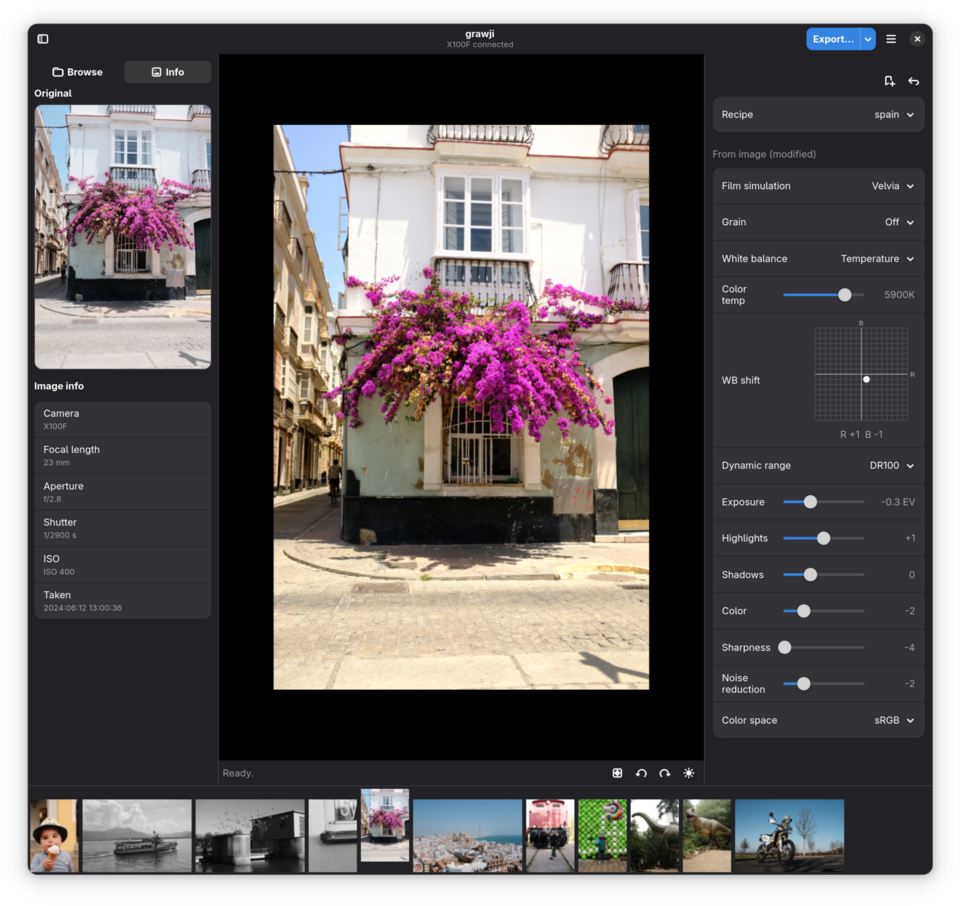
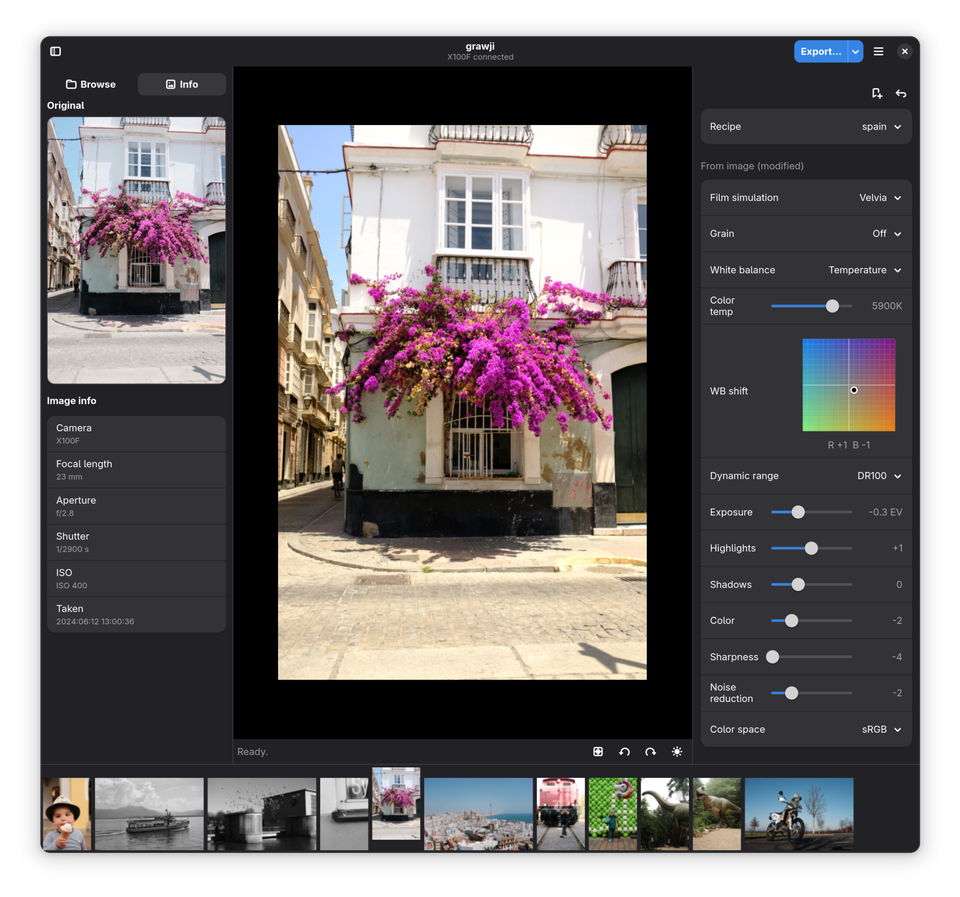
feat(ui, core): add white-balance grid tinting preference and functionality

diff --git a/src/grawji/widgets.py b/src/grawji/widgets.py
@@ -121,6 +121,7 @@ class WBShiftGrid(Gtk.DrawingArea):
         super().__init__()
         self._r = 0
         self._b = 0
+        self._colored = False
         self._on_changed: Callable[[int, int], None] | None = None
         self.set_content_width(164)
         self.set_content_height(164)
@@ -132,6 +133,21 @@ class WBShiftGrid(Gtk.DrawingArea):
         drag = Gtk.GestureDrag()
         drag.connect("drag-update", self._on_drag)
         self.add_controller(drag)
+
+    def set_colored(self, colored: bool) -> None:
+        """Tint each cell to preview its white-balance shift, or not."""
+        self._colored = colored
+        self.queue_draw()
+
+    @staticmethod
+    def _cell_rgb(r: float, b: float) -> tuple[float, float, float]:
+        """Opponent-colour tint for a shift: +R red, +B blue, and inverses."""
+        base, amp = 0.5, 0.22
+        red = base + amp * (r - b)
+        green = base - amp * (r + b)
+        blue = base + amp * (b - r)
+        clamp = lambda v: max(0.0, min(1.0, v))  # noqa: E731
+        return clamp(red), clamp(green), clamp(blue)
 
     def get_values(self) -> tuple[int, int]:
         """Return the current (red, blue) shift."""
@@ -190,12 +206,27 @@ class WBShiftGrid(Gtk.DrawingArea):
             if self._on_changed is not None:
                 self._on_changed(self._r, self._b)
 
+    def _fill_cells(self, cx: Any, ox: float, oy: float, step: float) -> None:
+        """Tint every grid cell with its opponent-colour shift preview."""
+        cells = 2 * self._RANGE
+        for col in range(cells):
+            r = ((col + 0.5) / cells) * 2 - 1
+            for row in range(cells):
+                b = 1 - ((row + 0.5) / cells) * 2
+                red, green, blue = self._cell_rgb(r, b)
+                cx.set_source_rgb(red, green, blue)
+                cx.rectangle(ox + col * step, oy + row * step, step, step)
+                cx.fill()
+
     def _draw(
         self, _area: Gtk.DrawingArea, cx: Any, _width: int, _height: int
     ) -> None:
         """Draw the grid, axes and current marker (cx is a cairo ctx)."""
         ox, oy, size, step = self._geometry()
         color = self.get_color()
+
+        if self._colored:
+            self._fill_cells(cx, ox, oy, step)
 
         cx.set_line_width(1.0)
         cx.set_source_rgba(color.red, color.green, color.blue, 0.15)
@@ -219,13 +250,14 @@ class WBShiftGrid(Gtk.DrawingArea):
 
         px = ox + (self._r / self._RANGE / 2 + 0.5) * size
         py = oy + (0.5 - self._b / self._RANGE / 2) * size
-        cx.set_source_rgba(color.red, color.green, color.blue, 0.95)
-        cx.arc(px, py, 5.0, 0, 6.2832)
-        cx.fill()
-
-        cx.set_source_rgba(color.red, color.green, color.blue, 0.7)
-        b_ext = cx.text_extents("B")
-        cx.move_to(mid_x - b_ext.width / 2, oy - 4)
-        cx.show_text("B")
-        cx.move_to(ox + size + 4, mid_y + 4)
-        cx.show_text("R")
+        if self._colored:
+            cx.set_source_rgb(1.0, 1.0, 1.0)
+            cx.arc(px, py, 5.5, 0, 6.2832)
+            cx.fill()
+            cx.set_source_rgb(0.0, 0.0, 0.0)
+            cx.arc(px, py, 3.5, 0, 6.2832)
+            cx.fill()
+        else:
+            cx.set_source_rgba(color.red, color.green, color.blue, 0.95)
+            cx.arc(px, py, 5.0, 0, 6.2832)
+            cx.fill()

diff --git a/src/grawji/window.py b/src/grawji/window.py
@@ -415,6 +415,7 @@ class MainWindow(Adw.ApplicationWindow):
             fmt=lambda i: f"{_WB_KELVIN_PRESETS[round(i)]}K",
         )
         self._wb_grid = WBShiftGrid()
+        self._wb_grid.set_colored(self._settings.wb_grid_tint)
         self._wb_shift_label = Gtk.Label(halign=Gtk.Align.CENTER)
         self._wb_shift_label.add_css_class("dim-label")
         wb_box = Gtk.Box(orientation=Gtk.Orientation.VERTICAL, spacing=0)
@@ -1225,9 +1226,14 @@ class MainWindow(Adw.ApplicationWindow):
     def _on_preferences(self) -> None:
         """Open the preferences dialog."""
         dialog = PreferencesDialog(
-            settings=self._settings, on_change=self._save_settings
+            settings=self._settings, on_change=self._on_settings_changed
         )
         dialog.present(self)
+
+    def _on_settings_changed(self) -> None:
+        """Persist settings and apply any that affect the live UI."""
+        self._wb_grid.set_colored(self._settings.wb_grid_tint)
+        self._save_settings()
 
     def _save_settings(self) -> None:
         """Persist the current settings to disk."""

diff --git a/src/grawji/preferences.py b/src/grawji/preferences.py
@@ -28,6 +28,7 @@ class PreferencesDialog(Adw.PreferencesDialog):
     __gtype_name__ = "GrawjiPreferencesDialog"
 
     load_recipe_row = Gtk.Template.Child()
+    wb_grid_row = Gtk.Template.Child()
     jpeg_quality_scale = Gtk.Template.Child()
     batch_skip_row = Gtk.Template.Child()
 
@@ -45,9 +46,11 @@ class PreferencesDialog(Adw.PreferencesDialog):
         self._on_change = on_change
 
         self.load_recipe_row.set_active(settings.load_recipe_from_image)
+        self.wb_grid_row.set_active(settings.wb_grid_tint)
         self.jpeg_quality_scale.set_value(settings.jpeg_quality)
         self.batch_skip_row.set_active(settings.batch_skip_foreign)
         self.load_recipe_row.connect("notify::active", self._on_edited)
+        self.wb_grid_row.connect("notify::active", self._on_edited)
         self.jpeg_quality_scale.connect("value-changed", self._on_edited)
         self.batch_skip_row.connect("notify::active", self._on_edited)
 
@@ -56,6 +59,7 @@ class PreferencesDialog(Adw.PreferencesDialog):
         self._settings.load_recipe_from_image = (
             self.load_recipe_row.get_active()
         )
+        self._settings.wb_grid_tint = self.wb_grid_row.get_active()
         self._settings.jpeg_quality = int(self.jpeg_quality_scale.get_value())
         self._settings.batch_skip_foreign = self.batch_skip_row.get_active()
         self._on_change()

diff --git a/src/grawji/settings.py b/src/grawji/settings.py
@@ -38,6 +38,8 @@ class Settings:
         batch_skip_foreign: On batch export, skip RAFs shot by a different
             camera body (which the connected camera cannot convert) and
             carry on, instead of stopping the whole batch.
+        wb_grid_tint: When True, tint each white-balance shift grid cell
+            with the colour it nudges the image toward.
     """
 
     load_recipe_from_image: bool = True
@@ -48,6 +50,7 @@ class Settings:
     window_height: int = 0
     jpeg_quality: int = 95
     batch_skip_foreign: bool = False
+    wb_grid_tint: bool = True
 
     def to_dict(self) -> dict[str, object]:
         """Return a plain dict for JSON storage."""